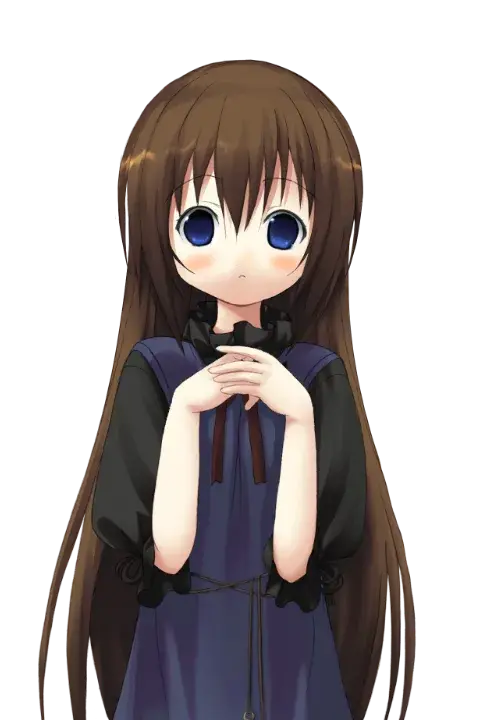
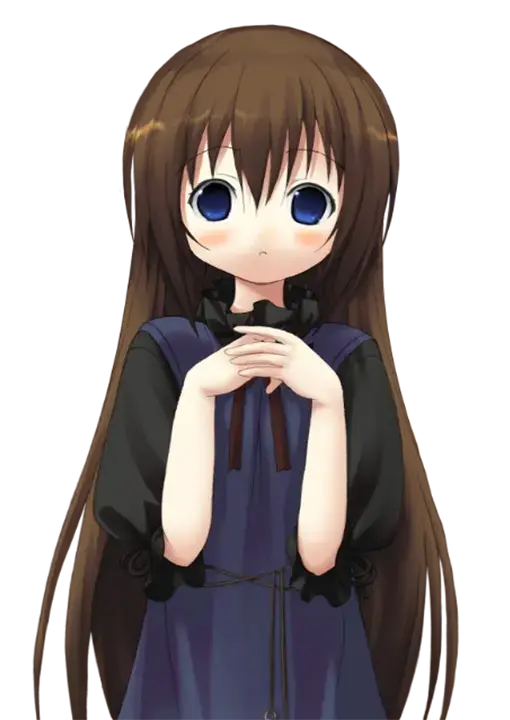
Char image adjust

diff --git a/source/_posts/Symphonic_Rain.md b/source/_posts/Symphonic_Rain.md
@@ -295,13 +295,11 @@ dlsite链接
   }
   .sp-character .char-overlay {
     background-color: var(--chara-card-color);
-    min-height: 400px;
+    min-height: 380px;
     background-image: var(--left-bg);
     background-repeat: no-repeat;
-    /*background-position: left calc(100%* .2 - 120px) bottom 0; */
-    background-size: auto;
-    margin: 0;
-    padding: 0;
+    background-size: 280px;
+    background-position: top 0px left calc(10px);
   }
   :root { /* 配色 */
     --chara-card-color: #ffffff6b;
@@ -330,9 +328,7 @@ dlsite链接
     }
     .sp-character .char-overlay {
       min-height: 350px;
-      background-size: 200px;
-      /*background-position: bottom 0px right 0px;*/
-      background-size: auto;
+      background-size:270px;
     }
     :root { /*配色*/
       --chara-card-color: #ffffff87;
